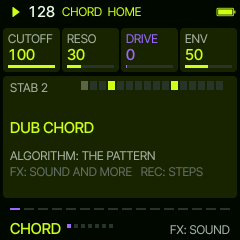
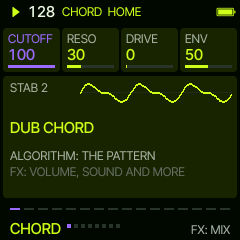
A synth layer's top: its sound as a wave (the mixer feeds a small scope per part), in place of the step bar
Claude-Session: https://claude.ai/code/session_01VgesZgNNDFiPGvKyDTZVUK

diff --git a/firmware/src/sa_ui.c b/firmware/src/sa_ui.c
@@ -677,23 +677,6 @@ static void sv_strip(int32_t x, int32_t y, int32_t w, int32_t h, uint16_t bits, 
     }
 }
 
-/* the preview bits of a code (a bar of it), worked out again only when it changed */
-static uint16_t sv_preview(sa_ui *u, int slot, const sa_code *c, int layer)
-{
-    int bar = u->g->playing ? u->g->bar : 0;
-    if (u->pv_layer == layer && u->pv_bar == bar && !memcmp(&u->pv_code[slot], c, sizeof *c) && !u->force)
-        return u->pv_bits[slot];
-    SV_LOCK();
-    uint16_t b = sa_preview(u->g, c, layer, bar);
-    SV_UNLOCK();
-    u->pv_code[slot] = *c;
-    u->pv_bits[slot] = b;
-    if (slot == 1) {
-        u->pv_layer = layer;
-        u->pv_bar = bar;
-    }
-    return b;
-}
 
 static void sv_panel_steps(sa_ui *u)
 {
@@ -1008,24 +991,31 @@ static void sv_panel_home(sa_ui *u)
     }
 }
 
-/* a layer's top: what plays, and what SEQ drops when it differs */
+/* a layer's top: its sound now, as a wave (silent: a flat line); its pattern, and what SEQ drops when it differs */
 static void sv_layer_top(sa_ui *u, int l)
 {
     sa_groove *g = u->g;
-    int now = sv_now(g);
     const sa_code *e = &g->ed[l], *lv = &g->s.code[l];
     bool pend = sa_layer_pending(g, l), mute = g->s.live[l].mute;
     bool off = lv->type == SA_T_NONE || (lv->pat == SA_PAT_OFF && !lv->own);
     char t[24];
+    int32_t x0 = 80, w = 152, cy = 16, h = 12;
+    uint16_t c = mute || off ? T_DIM : pend ? T_ACCENT : T_THEME;
+    cv_rect(x0, cy, w, 1, ux_mix(T_SURF, T_LINE, 60));
+    if (u->wave_n > 1 && !mute) {
+        int32_t py = cy - u->wave[0] * h / 120;
+        for (int i = 1; i < u->wave_n; ++i) {
+            int32_t x = x0 + i * (w - 1) / (u->wave_n - 1), y = cy - u->wave[i] * h / 120;
+            cv_line_t(x0 + (i - 1) * (w - 1) / (u->wave_n - 1), py, x, y, c, 2);
+            py = y;
+        }
+    }
     sa_pat_label(lv, t, sizeof t);
     cv_free_text(10, 4, &AF_S, mute ? "MUTED" : off ? "OFF" : t, mute ? T_ACCENT : off ? T_DIM : T_MID, T_SURF, 66);
-    sv_strip(80, 5, 152, 9, off ? 0 : sv_preview(u, 0, lv, l), now, T_THEME, mute || off);
     if (pend) {
         if (e->type == SA_T_NONE) sv_cpy(t, "GOES", sizeof t);
         else sa_pat_label(e, t, sizeof t);
-        cv_free_text(10, 20, &AF_S, t, T_ACCENT, T_SURF, 66);
-        sv_strip(80, 21, 152, 9, e->type == SA_T_NONE ? 0 : sv_preview(u, 1, e, l), now, T_ACCENT,
-                 e->type == SA_T_NONE);
+        cv_free_text(10, 18, &AF_S, t, T_ACCENT, T_SURF, 66);
     }
 }
 

diff --git a/firmware/src/sa_fw.c b/firmware/src/sa_fw.c
@@ -29,6 +29,42 @@ static uint32_t sa_applied_sig;
 static uint8_t sa_drums_ready;
 
 /* ---- the audio ISR --------------------------------------------------------------------------------------------- */
+/* each synth part's sound as it renders (fx.c mix_part): every 4th sample, the last 256 (23 ms); and when it last
+ * sounded */
+#define SA_SCOPE 256u
+static int16_t sa_scope[SA_SYNTHS][SA_SCOPE];
+static uint16_t sa_scope_w[SA_SYNTHS];
+static uint32_t sa_scope_ms[SA_SYNTHS];
+static void sa_scope_take(uint32_t part, const int32_t *b, uint32_t n)
+{
+    if (part >= SA_SYNTHS) return;
+    uint32_t w = sa_scope_w[part];
+    for (uint32_t i = 0; i < n; i += 4u)
+        sa_scope[part][w++ & (SA_SCOPE - 1u)] = (int16_t)clamp(b[i] >> 2, -32767, 32767);
+    sa_scope_w[part] = (uint16_t)w;
+    sa_scope_ms[part] = fm1_ms;
+}
+/* the open synth layer's wave for its screen: from a rising zero crossing, scaled to its own peak */
+static void sa_wave(void)
+{
+    sa_u.wave_n = 0;
+    if ((sa_u.page != SV_PG_LAYER && sa_u.page != SV_PG_EDIT) || sa_u.view < SV_V_LEAD || sa_u.view > SV_V_BASS)
+        return;
+    uint32_t p = sa_g.s.code[sa_u.layer].part % SA_SYNTHS, st = sa_u.view == SV_V_BASS ? 2u : 1u;   /* (the bass: twice
+                                                                                                   * as long) */
+    if (fm1_ms - sa_scope_ms[p] > 120u) return;                 /* (silent) */
+    int16_t s[SA_SCOPE];
+    uint32_t w = sa_scope_w[p];
+    for (uint32_t i = 0; i < SA_SCOPE; ++i) s[i] = sa_scope[p][(w + i) & (SA_SCOPE - 1u)];
+    uint32_t at = 0;
+    for (uint32_t i = 1; i + 96u * st < SA_SCOPE; ++i)
+        if (s[i - 1] < 0 && s[i] >= 0) { at = i; break; }
+    int pk = 1;
+    for (uint32_t i = 0; i < 96u; ++i) { int a = s[at + i * st] < 0 ? -s[at + i * st] : s[at + i * st]; if (a > pk) pk = a; }
+    if (pk < 8) return;
+    for (uint32_t i = 0; i < 96u; ++i) sa_u.wave[i] = (int8_t)(s[at + i * st] * 120 / pk);
+    sa_u.wave_n = 96;
+}
 static void sa_sound(void *ctx, const sa_event *e)
 {
     (void)ctx;
@@ -639,6 +675,7 @@ static void sa_frame(void)
             sa_u.shed = (int)shed_count;
         }
     }
+    sa_wave();
     sv_tick(&sa_u, dt > 100u ? 100 : (int)dt);
     if (first) {
         sv_draw_all(&sa_u);

diff --git a/firmware/src/fx.c b/firmware/src/fx.c
@@ -878,6 +878,9 @@ static const uint16_t ENG_VCOST[NENGINES] = {163, FELUCCA_FM4 ? 181 : 0, 162, 67
 };
 #endif
 
+#if FELUCCA_SARDINE
+static void sa_scope_take(uint32_t part, const int32_t *b, uint32_t n);   /* (sa_fw.c: a layer's wave for its screen) */
+#endif
 /* one synth part into the dry mix and the sends of sm (mx[0]; mx[1] on the second core); a part with no voice sounding costs
  * the LFO tick and a cleared buffer only (after the DIST tail has run out) */
 static void mix_part(track_t *t, uint32_t n SM_DECL)
@@ -906,6 +909,9 @@ static void mix_part(track_t *t, uint32_t n SM_DECL)
             mod_end(t);
         return;
     }
+#if FELUCCA_SARDINE
+    sa_scope_take((uint32_t)(t - trk) % NTRK, b, n);
+#endif
     if (T_SPREAD(t))
         mix_spread(t, b, n SM_ARG(sm));
     else {

diff --git a/web/emu/sa_web.c b/web/emu/sa_web.c
@@ -470,6 +470,8 @@ EXPORT const char *web_da_version(void) { return SA_VERSION; }
 EXPORT uint32_t web_da_view(void) { return (uint32_t)sa_u.view; }
 EXPORT uint32_t web_da_fx(void) { return (uint32_t)sa_u.fx; }
 EXPORT uint32_t web_da_bpm(void) { return sa_g.s.bpm; }
+EXPORT uint32_t web_da_wave(void) { return (uint32_t)sa_u.wave_n; }
+EXPORT uint32_t web_da_scope(uint32_t p) { return p < SA_SYNTHS ? sa_scope_w[p] : 0u; }
 EXPORT uint32_t web_da_groove(void) { return sv_hashb(2166136261u, sa_g.s.code, sizeof sa_g.s.code); }
 EXPORT uint32_t web_da_set_used(uint32_t k) { return k < SV_SLOTS ? sa_u.sets[k].used : 0u; }
 EXPORT uint32_t web_sample_rate(void) { return FS; }

diff --git a/tests/sa_ui_test.c b/tests/sa_ui_test.c
@@ -7,6 +7,7 @@
 #include <stdbool.h>
 #include <stdint.h>
 #include <stdio.h>
+#include <math.h>
 #include <stdlib.h>
 #include <string.h>
 
@@ -222,6 +223,9 @@ int main(int argc, char **argv)
     shot("03_lead_off");
     sv_knob(&ui, SV_K_PRESETS, 1);
     CHECK(ui.view == SV_V_CHORD && ui.layer == SA_L_CHORD, "PRESETS: CHORD");
+    for (int i = 0; i < 96; ++i)                   /* (the glue's wave: here a sine and its octave) */
+        ui.wave[i] = (int8_t)(80.0 * sin(i * 6.2832 / 32.0) + 30.0 * sin(i * 6.2832 / 16.0));
+    ui.wave_n = 96;
     shot("04_chord");
     all_palettes("chord");
     sv_knob(&ui, SV_K_PRESETS, 1);

diff --git a/firmware/src/sa_ui.h b/firmware/src/sa_ui.h
@@ -90,6 +90,8 @@ typedef struct {
     int key_sent[27];
     uint32_t frame;
     int batt;
+    int8_t wave[96];                      /* the open synth layer's sound now, a cycle or two (the glue fills it) */
+    int wave_n;                           /* how many (0: silent, a flat line) */
     int cpu, cpu_peak, shed;              /* MENU: the audio's load now (its average) and its worst, in %; voices shed */
     bool changed;                         /* a setting changed: the glue applies it (and keeps the look) */
     sv_set_info sets[SV_SLOTS];           /* what each set holds, and LAST (the glue fills it) */

diff --git a/docs/MANUAL.md b/docs/MANUAL.md
@@ -48,7 +48,8 @@ spread, 70: each sound's own); FX again back.
 
 ## LEAD, CHORD, BASS
 
-A layer opens on its home page: **CUTOFF**, **RESO**, **DRIVE**, **ENV** (the filter envelope, 50: the sound's own),
+At the top of a layer's pages its sound as it plays, a wave (a flat line when it is silent), beside its pattern (the
+second colour under it: what SEQ drops). A layer opens on its home page: **CUTOFF**, **RESO**, **DRIVE**, **ENV** (the filter envelope, 50: the sound's own),
 at once. ALGORITHM turns its pattern: OFF, then the patterns of its kind (BASS the bass lines, CHORD stabs and pads,
 LEAD lead lines and the bass lines). FX turns through its pages:
 
